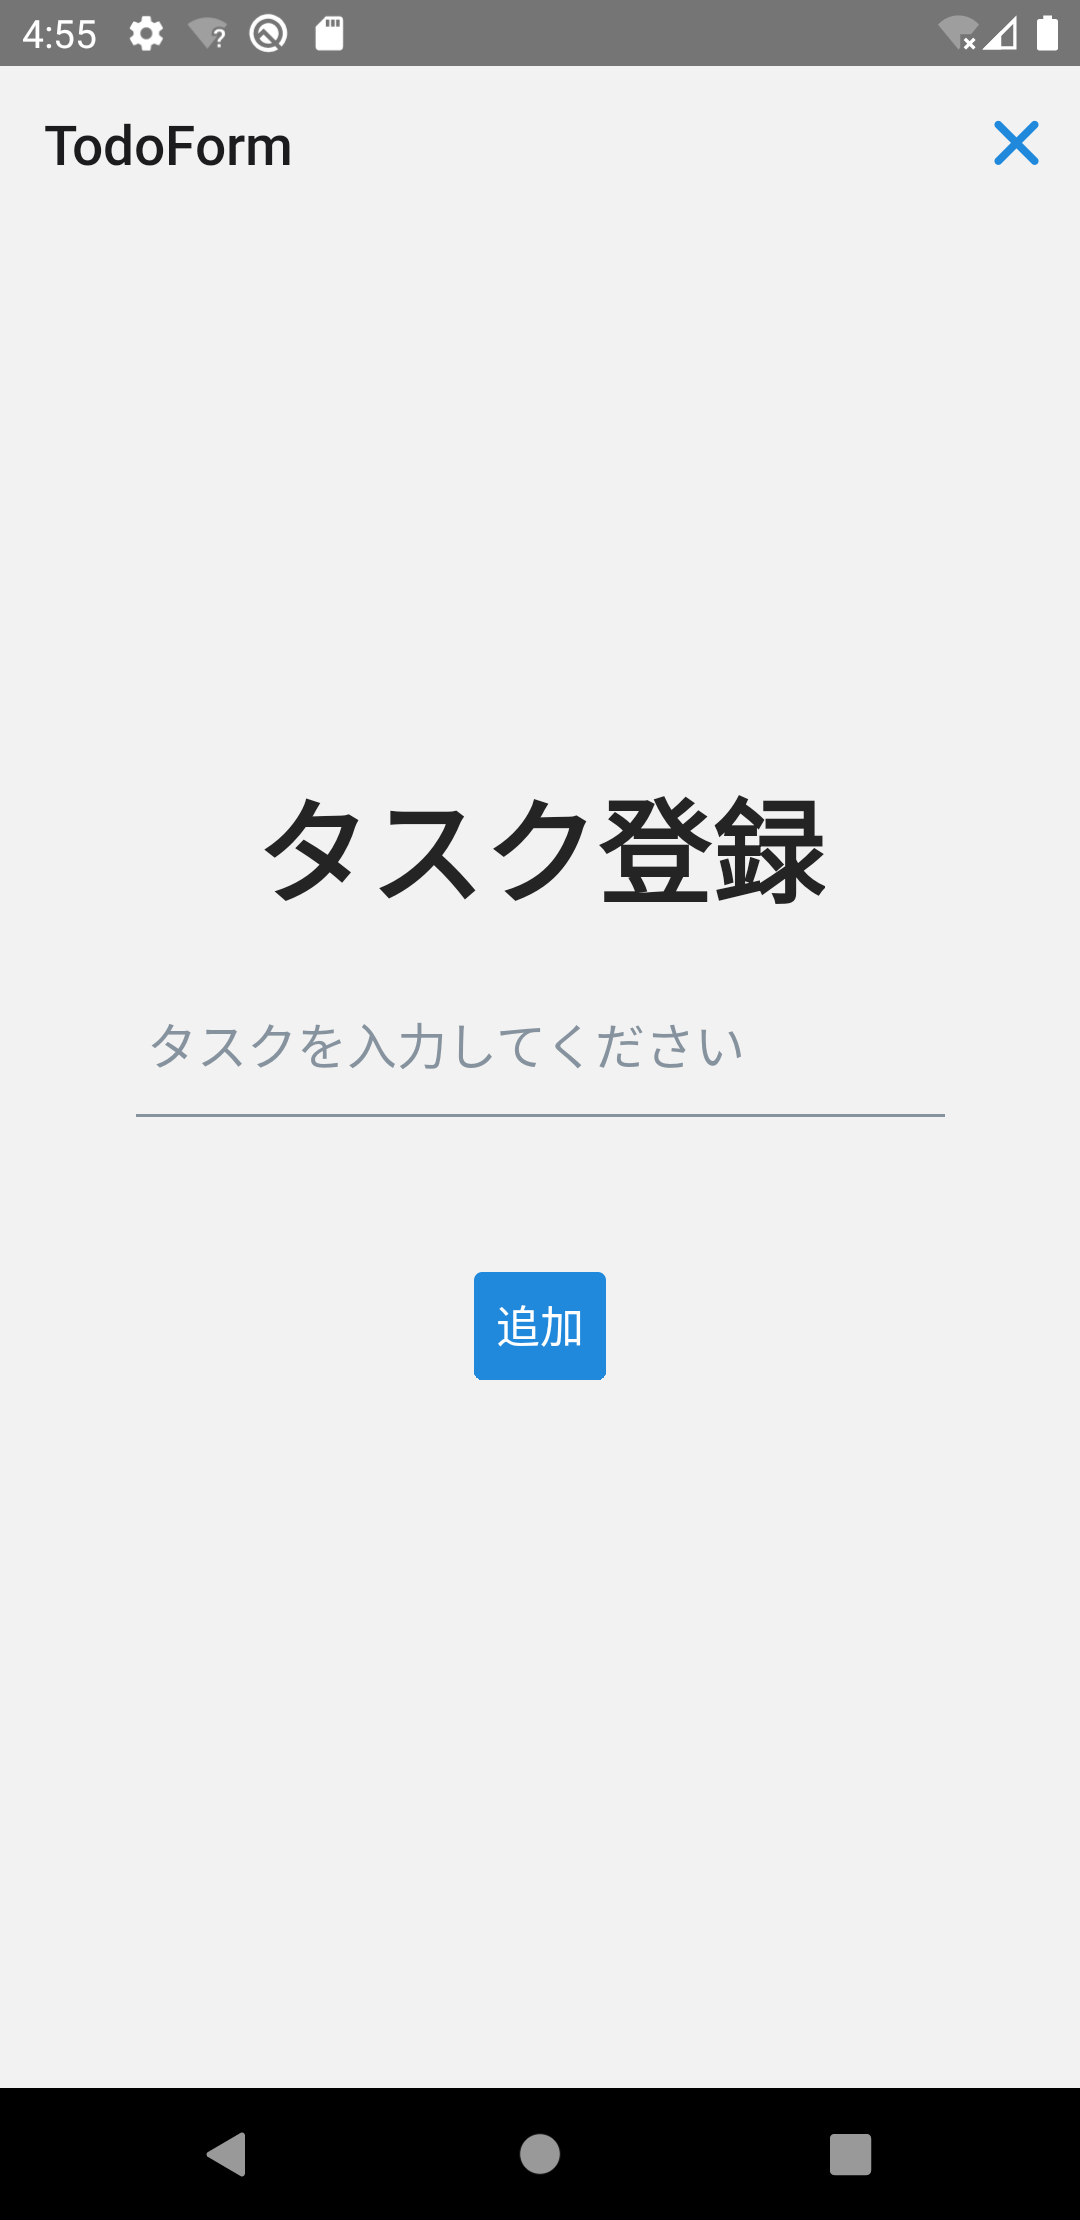
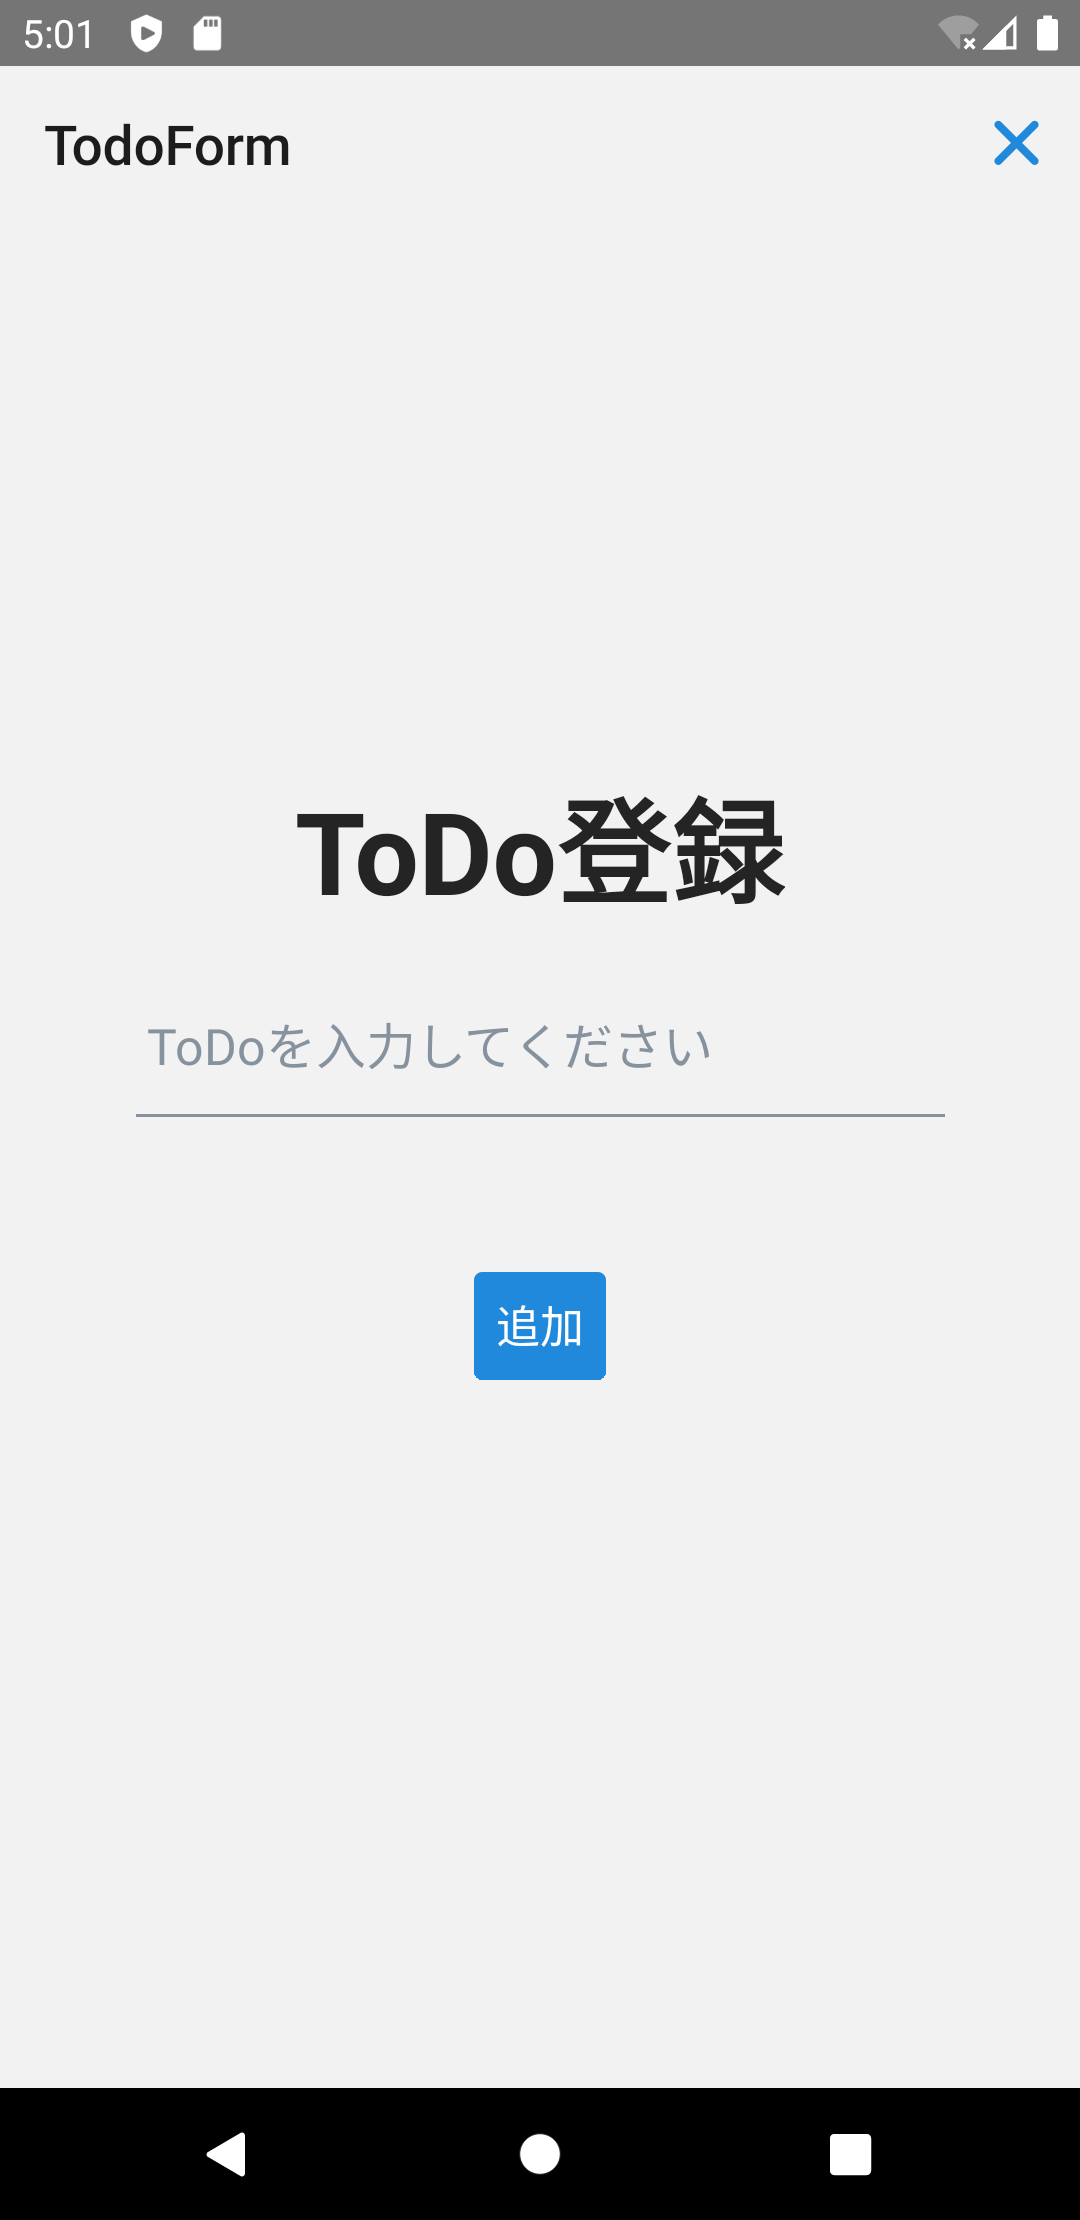
🩹: ToDoに統一する (#252)
## ✅ What's done

- [x] 説明にあるタスクをToDoに修正する
- [x] コード例にあるタスクをToDoに修正する
- [x] 画像にあるタスクをToDoに修正する

diff --git a/docs/react-native/learn/todo-app/app-spec.md b/docs/react-native/learn/todo-app/app-spec.md
@@ -42,7 +42,7 @@ title: ToDoアプリの仕様
 
 ![todo_board_all](app-spec/todo_board_all.png)
 
-### タスク登録
+### ToDo登録
 
 ![add_task](app-spec/add_task.png)
 
